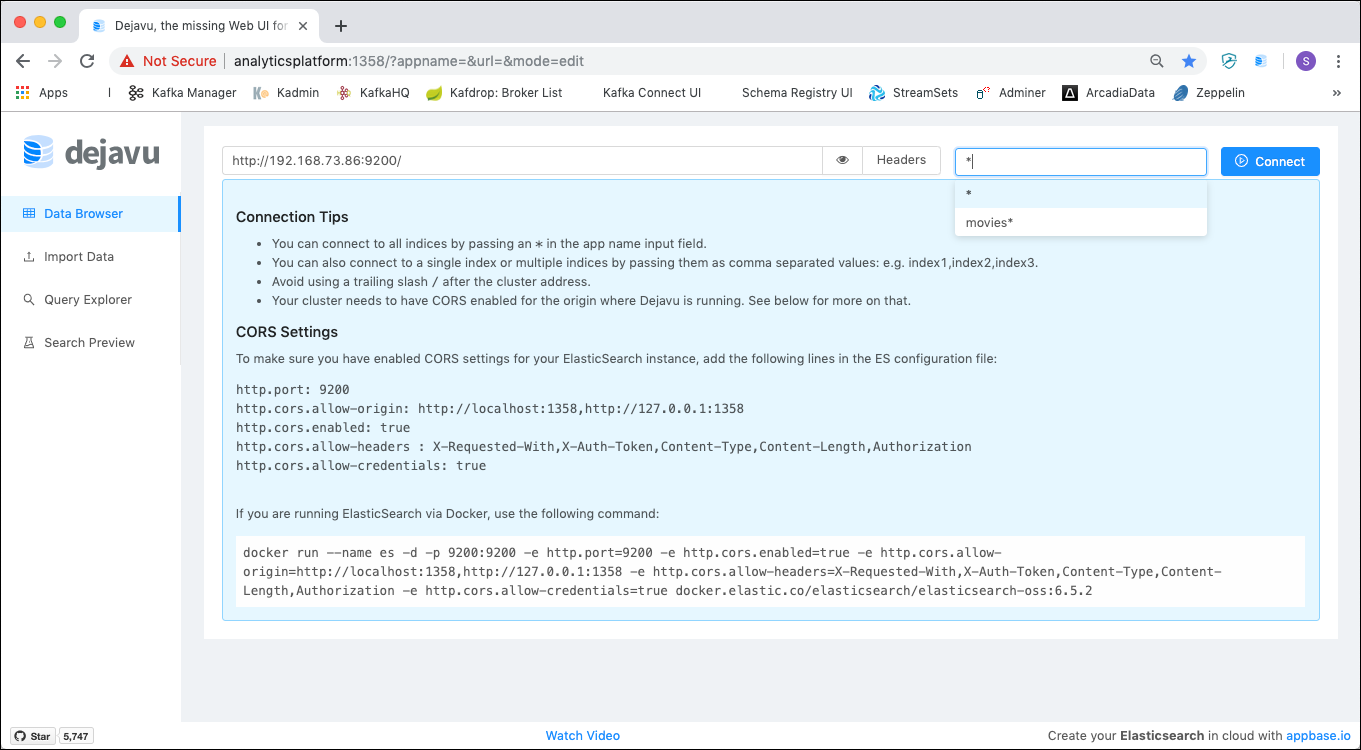
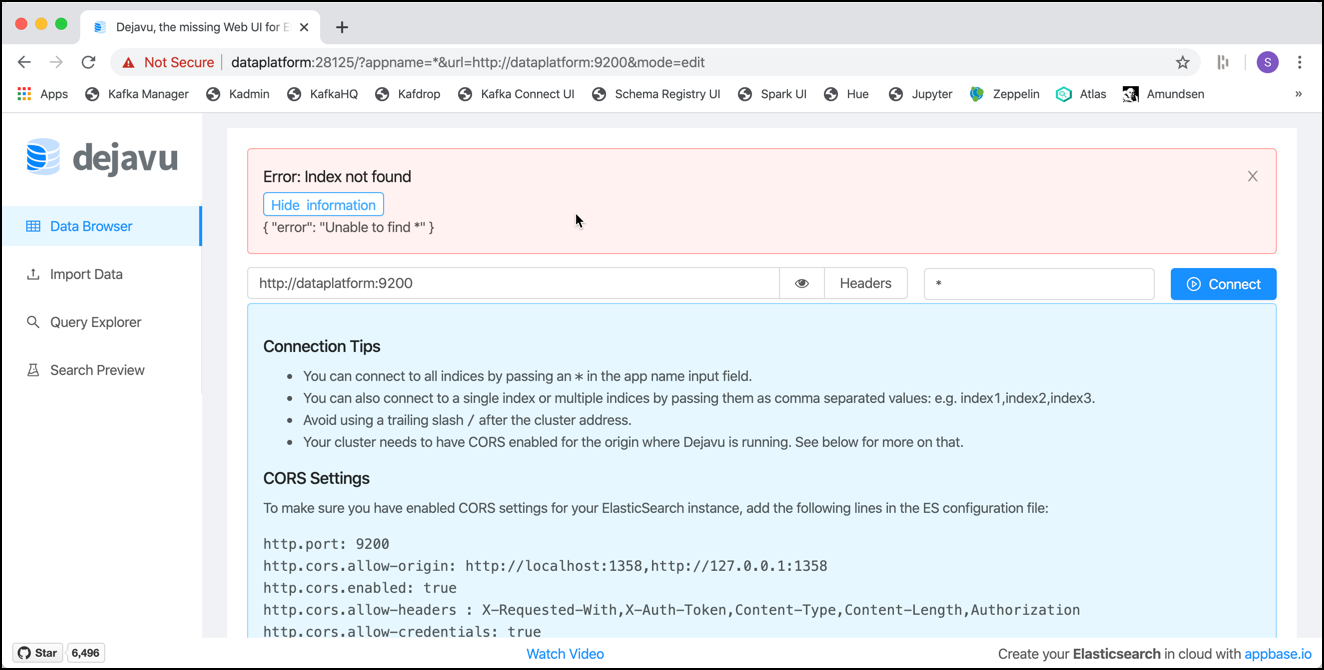
update ports and some typos fixed

diff --git a/05-working-with-elasticsearch/README.md b/05-working-with-elasticsearch/README.md
@@ -8,21 +8,21 @@ We assume that the platform described [here](../01-environment) is running and a
 
 ### Using REST API
 
-Once you have an instance of ElasticSearch up and running you can talk to it using its JSON based REST API residing at localhost port 9200. You can use any HTTP client to talk to it. In ElasticSearch's own documentation all examples use curl, which makes for concise examples. However, when playing with the API you may find a graphical client such RESTClient more convenient. 
+Once you have an instance of Elasticsearch up and running you can talk to it using its JSON based REST API residing at localhost port 9200. You can use any HTTP client to talk to it. In ElasticSearch's own documentation all examples use curl, which makes for concise examples. However, when playing with the API you may find a graphical client such RESTClient more convenient. 
 
-In a browser window navigate to <http://nosqlplatform:9200/> just to see that Elastic Search is running. You should see the following result. 
+In a browser window, navigate to <http://dataplatform:9200/> just to see that Elastic Search is running. You should see the following result. 
 
 ![Alt Image Text](./images/browser-es-test.png "Elasticsearch in Browser")
 
-Because most of the command use another HTTP Method than GET, using the browser like that is only of limited use. 
+Because most of the commands use another HTTP Method than `GET`, using the browser like shown is only of limited use. 
 
-To have control over the HTTP method to use, the `curl` command can be used. From a terminal window use the curl to to a GET on the address specified using the JSON for the `Content-Type` header attribute.
+To have more control over the HTTP method to use, the `curl` command can be used. From a terminal window, use curl and the GET method on the address specified, using JSON for the `Content-Type` header attribute.
 
 ```
-curl -H "Content-Type: application/json" -XGET http://nosqlplatform:9200
+curl -H "Content-Type: application/json" -XGET http://dataplatform:9200
 ```
 
-and you should get a result similar to the one shown below. 
+You should get a result similar to the one shown below. 
 
 ```
 {
@@ -48,7 +48,7 @@ In this workshop we will be using the method with `curl` for most of the times. 
 
 ### Using Browser-based GUIs
 
-There are many options to work with Elasticserach in a browser-based way, which are more comfortable than just the plain browser. 
+There are many options to work with Elasticsearch in a browser-based way, which are more comfortable than just the plain browser. 
 
 One option is to use a generic REST client which runs in the browser, such as the Firefox Add-On called RESTClient. 
 
@@ -70,7 +70,7 @@ Specify the **Method**, **URL** and **Body** fields according to your command an
 
 [Kibana](https://www.elastic.co/products/kibana) is part of the Elastic stack (aka. ELK Stack) and lets you visualise your Elasticsearch data and navigate the Elastic Stack. It also holds a Dev Tools interface where you can execute REST calls over a browser based window. 
 
-In a browser window navigate to <http://nosqlplatform:5601> and you should directly land on the Kibana home screen as shown below. 
+In a browser window, navigate to <http://dataplatform:5601> and you should directly land on the Kibana home screen as shown below. 
 
 ![Alt Image Text](./images/kibana.png "Kibana")
 
@@ -78,9 +78,9 @@ Navigate to **Dev Tools** on the right to open the **Dev Tools Console** window.
 
 #### ElasticHQ Application
 
-The second one is [ElasticHQ](https://www.elastichq.org/), a open source management and monitoring interface for Elasticsearch.
+The second one is [ElasticHQ](https://www.elastichq.org/), an open source management and monitoring interface for Elasticsearch.
 
-In a browser window navigate to <http://nosqlplatform:35000> and you should directly land on the ElasticHQ **Connect to Elasticsearch** screen. Enter `http://nosqlplatform:9200` into the URL field and click **Connect**. You should arrive on the ElasticHQ home screen as shown below. 
+In a browser window, navigate to <http://dataplatform:28127> and you should directly land on the ElasticHQ **Connect to Elasticsearch** screen. Enter `http://nosqlplatform:9200` into the URL field and click **Connect**. You should arrive on the ElasticHQ home screen as shown below. 
 
 ![Alt Image Text](./images/elastichq.png "ElasticHQ")
 
@@ -88,7 +88,7 @@ In a browser window navigate to <http://nosqlplatform:35000> and you should dire
 
 The second one is [Cerebro](https://github.com/lmenezes/cerebro/), an open source (MIT License) elasticsearch web admin tool built using Scala, Play Framework, AngularJS and Bootstrap.
 
-In a browser window navigate to <http://nosqlplatform:39000/> and you should directly land on the Cerebro **Connect** screen. Enter `http://nosqlplatform:9200` into the **Node address** field and click **Connect**. You should arrive on the Cerebro home screen as shown below. 
+In a browser window, navigate to <http://dataplatform:28126/> and you should directly land on the Cerebro **Connect** screen. Enter `http://dataplatform:9200` into the **Node address** field and click **Connect**. You should arrive on the Cerebro home screen as shown below. 
 
 ![Alt Image Text](./images/cerebro.png "Cerebro")
 
@@ -96,24 +96,29 @@ In a browser window navigate to <http://nosqlplatform:39000/> and you should dir
 
 [Dejavu](https://opensource.appbase.io/dejavu/) is a Web-based UI for Elasticsearch to import, browse and edit data with rich filters & query views.
 
-In a browser window navigate to <http://nosqlplatform:1358/> and you should directly arrive on the home screen as shown below. 
+In a browser window, navigate to <http://dataplatform:28125/> and you should directly arrive on the home screen as shown below. 
 
-Enter `http://nosqlplatform:9200` into the URL field
+Enter `http://dataplatform:9200` into the URL field and `*` into the `Appname` field and then click **Connect**. 
+
+You will get an error, because there is not yet an index available. 
 
 ![Alt Image Text](./images/dejavu.png "Dejavu Home Screen")
 
+But this proves that the connection to Elasticsearch worked and later, after creating the index, the connect will just work fine.
+
 #### Apache Zeppelin
 
-Another universal "data" tool is [Apache Zeppelin](http://zeppelin.apache.org). In a browser window navigate to <http://nosqlplatform:38001/> and you should directly arrive on the home screen as shown below. 
+Another universal "data" tool is [Apache Zeppelin](http://zeppelin.apache.org). In a browser window, navigate to <http://dataplatform:28080/> and you should directly arrive on the home screen as shown below. 
 
 ![Alt Image Text](./images/apache-zeppelin.png "Apache Zeppelin")
 
 Apache Zeppelin uses a so called "Notebook" based model that enables data-driven,
-interactive data analytics and collaborative documents with SQL, Scala and more.
+Interactive data analytics and collaborative documents with SQL, Scala and more.
 
 Zeppelin uses the concept of interpreters. Each Interpreter has the capability to "talk" to a given data systems. When creating a Notebook, you can specify the "default" interpreter to use, all other interpreters can be used as well, but then the directive `%<interpreter-name>`has to be used in each cell. 
 
-Zepplin has an Elasticsearch interpreter, which we will use here. But before we can use it, it has to be configured. Click on **anonymous** drop-down and select **Interpreter**.
+Zeppelin has an Elasticsearch interpreter, which we will use here. But before we can use it, it has to be configured. Click on **anonymous** drop-down and select **Interpreter**.
+
 Navigate to the **Elasticsearch** Interpreter either by searching for it or scrolling down to reach it. Click on **edit** and change the **elasticsearch.host** property to `elasticsearch-1`, which is the service name of our Elasticsearch node in the docker-compose configuration. 
 
 ![Alt Image Text](./images/apache-zeppelin-interpreter-elasticsearch.png "Apache Zeppelin Elasticsearch Interpreter")
@@ -132,7 +137,7 @@ For all the commands which follow now in this workshop, you can either use one o
 To create the mapping for the year type in Elasticsearch run the following curl command:
 
 ```
-curl -H "Content-Type: application/json" -XPUT http://nosqlplatform:9200/movies -d '
+curl -H "Content-Type: application/json" -XPUT http://dataplatform:9200/movies -d '
 {
     "mappings": {
         "movie": {
@@ -147,7 +152,7 @@ curl -H "Content-Type: application/json" -XPUT http://nosqlplatform:9200/movies 
 and you should get a result similar to the one bellow
 
 ```
-gus@gusmacbook ~> curl -H "Content-Type: application/json" -XPUT http://nosqlplatform:9200/movies -d '
+gus@gusmacbook ~> curl -H "Content-Type: application/json" -XPUT http://dataplatform:9200/movies -d '
                   {
                       "mappings": {
                           "movie": {
